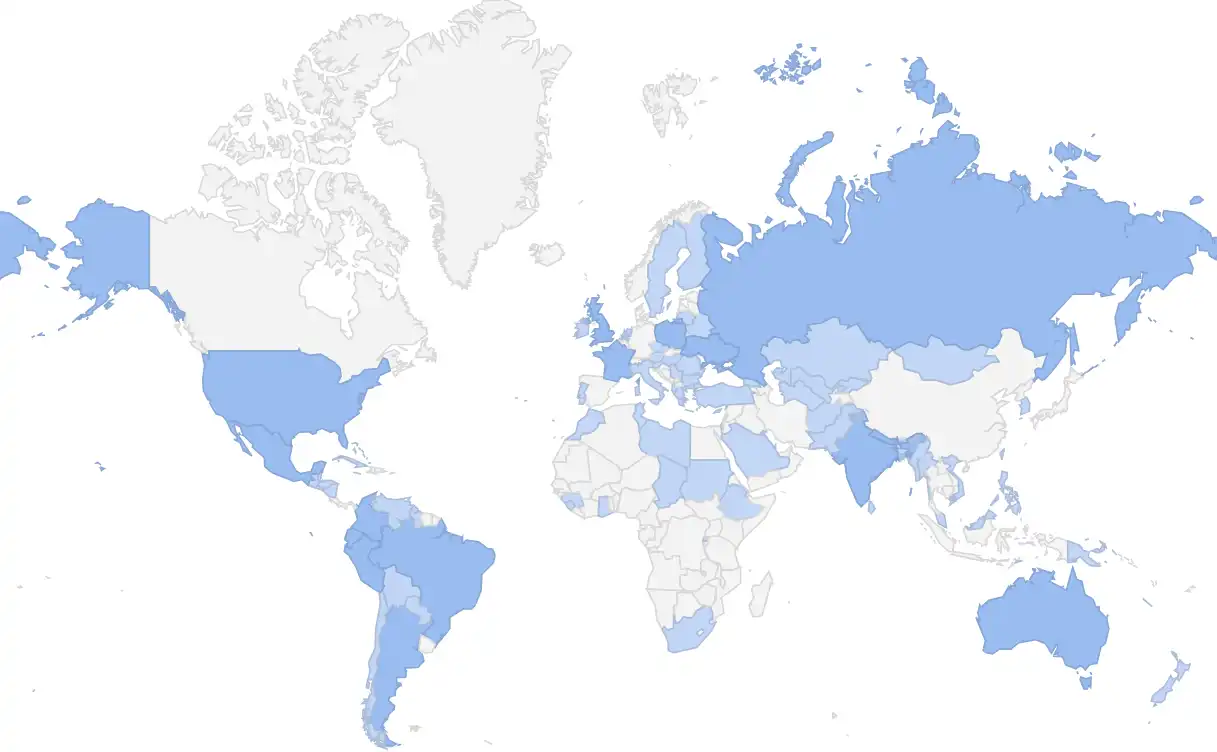
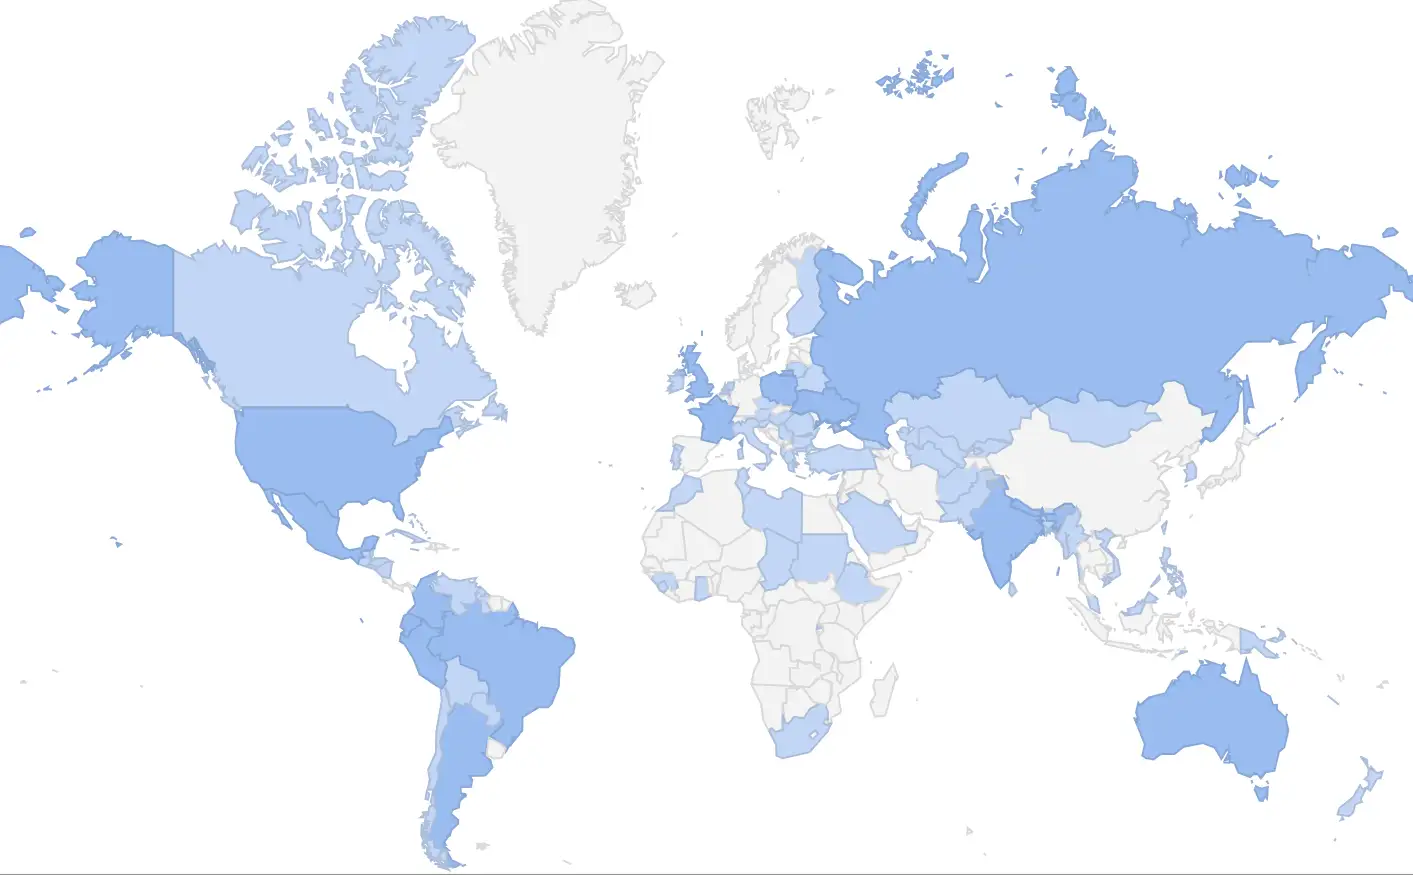
New content

diff --git a/src/_posts/2025-02-12-django-in-government.md b/src/_posts/2025-02-12-django-in-government.md
@@ -137,6 +137,20 @@ In Türkiye / Turkey, the [Ministry of Education website](https://abdigm.meb.gov
 
 The [Uzbekistan parliament website](https://parliament.gov.uz/) is also built with Django!
 
+### Canada
+
+![Screenshot of the Government of Canada’s Open Government Portal](/images/blog/django-in-government/search.open.canada.ca_data.webp)
+
+Another pretty cool open data portal, this time from Canada: [Open Government Portal](https://search.open.canada.ca/data/). And part of it is open source – [Open Canada Solr Search (OCS)](https://github.com/open-data/oc_search), a Django + Solr search application.
+
+Thanks [Gavin Anderegg for the suggestion](https://fosstodon.org/@gavinanderegg@mastodon.social/113996606265834389)!
+
+### Romania
+
+![Screenshot of the Romanian National Institute for Research & Development in Informatics](/images/blog/django-in-government/www.ici.ro.webp)
+
+The [Romanian National Institute for Research & Development in Informatics](https://www.ici.ro/) is built with Django (and [Wagtail](https://wagtail.org/)).
+
 ### India
 
 ![Screenshot of the National Test House website](/images/blog/django-in-government/mis.nth.gov.in_.webp)
@@ -145,14 +159,16 @@ Last but not least, in India, we have the [National Test House website](https://
 
 ## Methodology and data
 
-That’s a lot of sites, but really just the tip of the iceberg. My [Django in government dataset](https://docs.google.com/spreadsheets/d/1JvMumg29VAbzKyJhc6MkN97-2RQfTpWgtDRlABVbAhQ/edit?usp=sharing) is just shy of 1000 websites, and that’s only based on the most predictable domain name patterns:
+That’s a lot of sites, but really just the tip of the iceberg. My [Django in government dataset](
+
+) is just shy of 1000 websites, and that’s only based on the most predictable domain name patterns:
 
 ```sql
 select origin, rank, dj_version, last_modified
 from w_dj
 where regexp_matches(
   origin,
-  '\.((gov|government|gob|gouv|gv)\.?[a-z]{0,2}$|gc\.ca|gouv\.fr|govt\.nz|go\.kr|overheid\.nl|admin\.ch|europa\.eu|bund\.de)'
+  '\.((gov|government|gob|gouv|gv)\.?[a-z]{0,2}$|gc\.ca|gouv\.fr|govt\.nz|go\.kr|overheid\.nl|admin\.ch|europa\.eu|bund\.de|(gop|gos|gkp|gob|gog|gok)\.pk|canada\.ca|bund\.de)'
 );
 ```
 
@@ -162,4 +178,4 @@ Cross-referencing those 50k websites with other sources, we’re likely to be an
 
 ## Missing countries
 
-There are lots of gaps on the map I’m surprised about! In particular Canada, Germany, Iceland, China, Japan. If you’re aware of government websites in those countries that are built with Django, please let me know!
+There are lots of gaps on the map I’m surprised about! In particular Germany, Iceland, China, Japan. If you’re aware of government websites in those countries that are built with Django, please let me know!

diff --git a/src/_posts/2025-02-18-django-packages-already-on-5-2.md b/src/_posts/2025-02-18-django-packages-already-on-5-2.md
@@ -79,9 +79,11 @@ Try out the pre-releases on your projects or packages! And if you find any issue
 
 And if you maintain packages – consider running your tests against Django’s main? Watch Sage’s talk at Django London:
 
-<a href="https://www.youtube.com/watch?v=X3fR1HOYcl0">
-    <figure>
-        <img src="https://i.ytimg.com/vi_webp/X3fR1HOYcl0/maxresdefault.webp" width="320" height="180" alt="">
-        <figcaption>Run your tests against Django's main! – Django London Meetup, 13 February 2025</figcaption>
-    </figure>
-</a>
+<div>
+  <a href="https://www.youtube.com/watch?v=X3fR1HOYcl0">
+      <figure>
+          <img src="https://i.ytimg.com/vi_webp/X3fR1HOYcl0/maxresdefault.webp" width="320" height="180" alt="">
+          <figcaption>Run your tests against Django's main! – Django London Meetup, 13 February 2025</figcaption>
+      </figure>
+  </a>
+</div>
